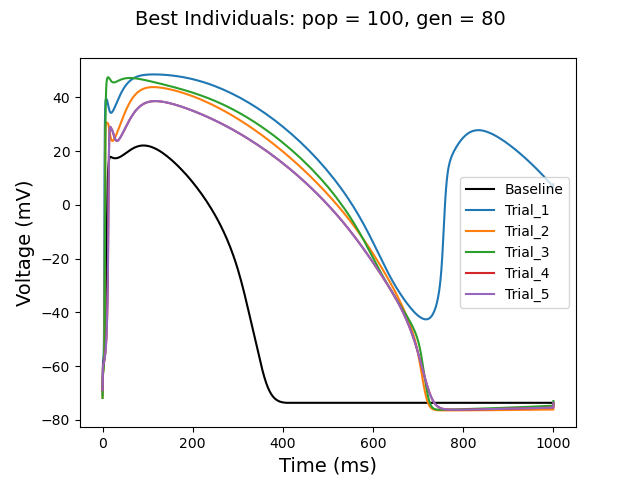
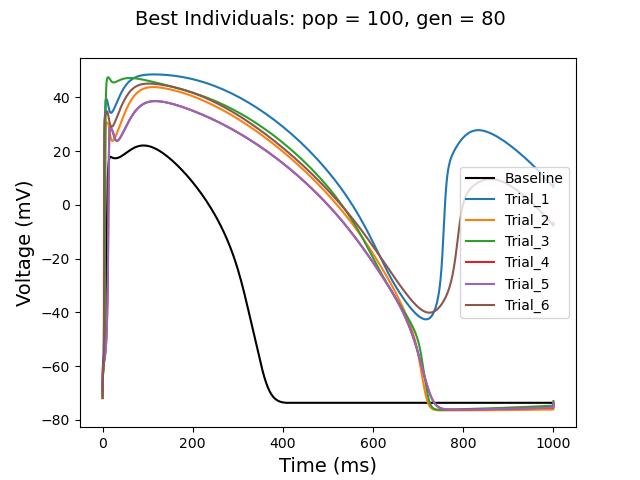
newind

diff --git a/plot_GA.py b/plot_GA.py
@@ -42,6 +42,12 @@ ind_5 = ind_5.to_dict('index')
 t5, v5 = plot_GA(ind_5)
 plt.plot(t4, v4, label = 'Trial_5')
 
+ind_6 = pd.read_excel('Best_ind_6.xlsx')
+ind_6 = ind_6.to_dict('index')
+
+t6, v6 = plot_GA(ind_6)
+plt.plot(t6, v6, label = 'Trial_6')
+
 plt.legend()
 plt.ylabel('Voltage (mV)', fontsize=14)
 plt.xlabel('Time (ms)', fontsize=14)
@@ -72,6 +78,10 @@ plt.plot(gen, best_err_4,'*', label = 'Trial_4')
 err_5 = pd.read_excel('Errors_5.xlsx')
 best_err_5 = list(err_5['Best Error'])
 plt.plot(gen, best_err_5,'*', label = 'Trial_5')
+
+err_6 = pd.read_excel('Errors_6.xlsx')
+best_err_6 = list(err_5['Best Error'])
+plt.plot(gen, best_err_6,'*', label = 'Trial_6')
 
 plt.legend()
 plt.ylabel('Error', fontsize=14)
